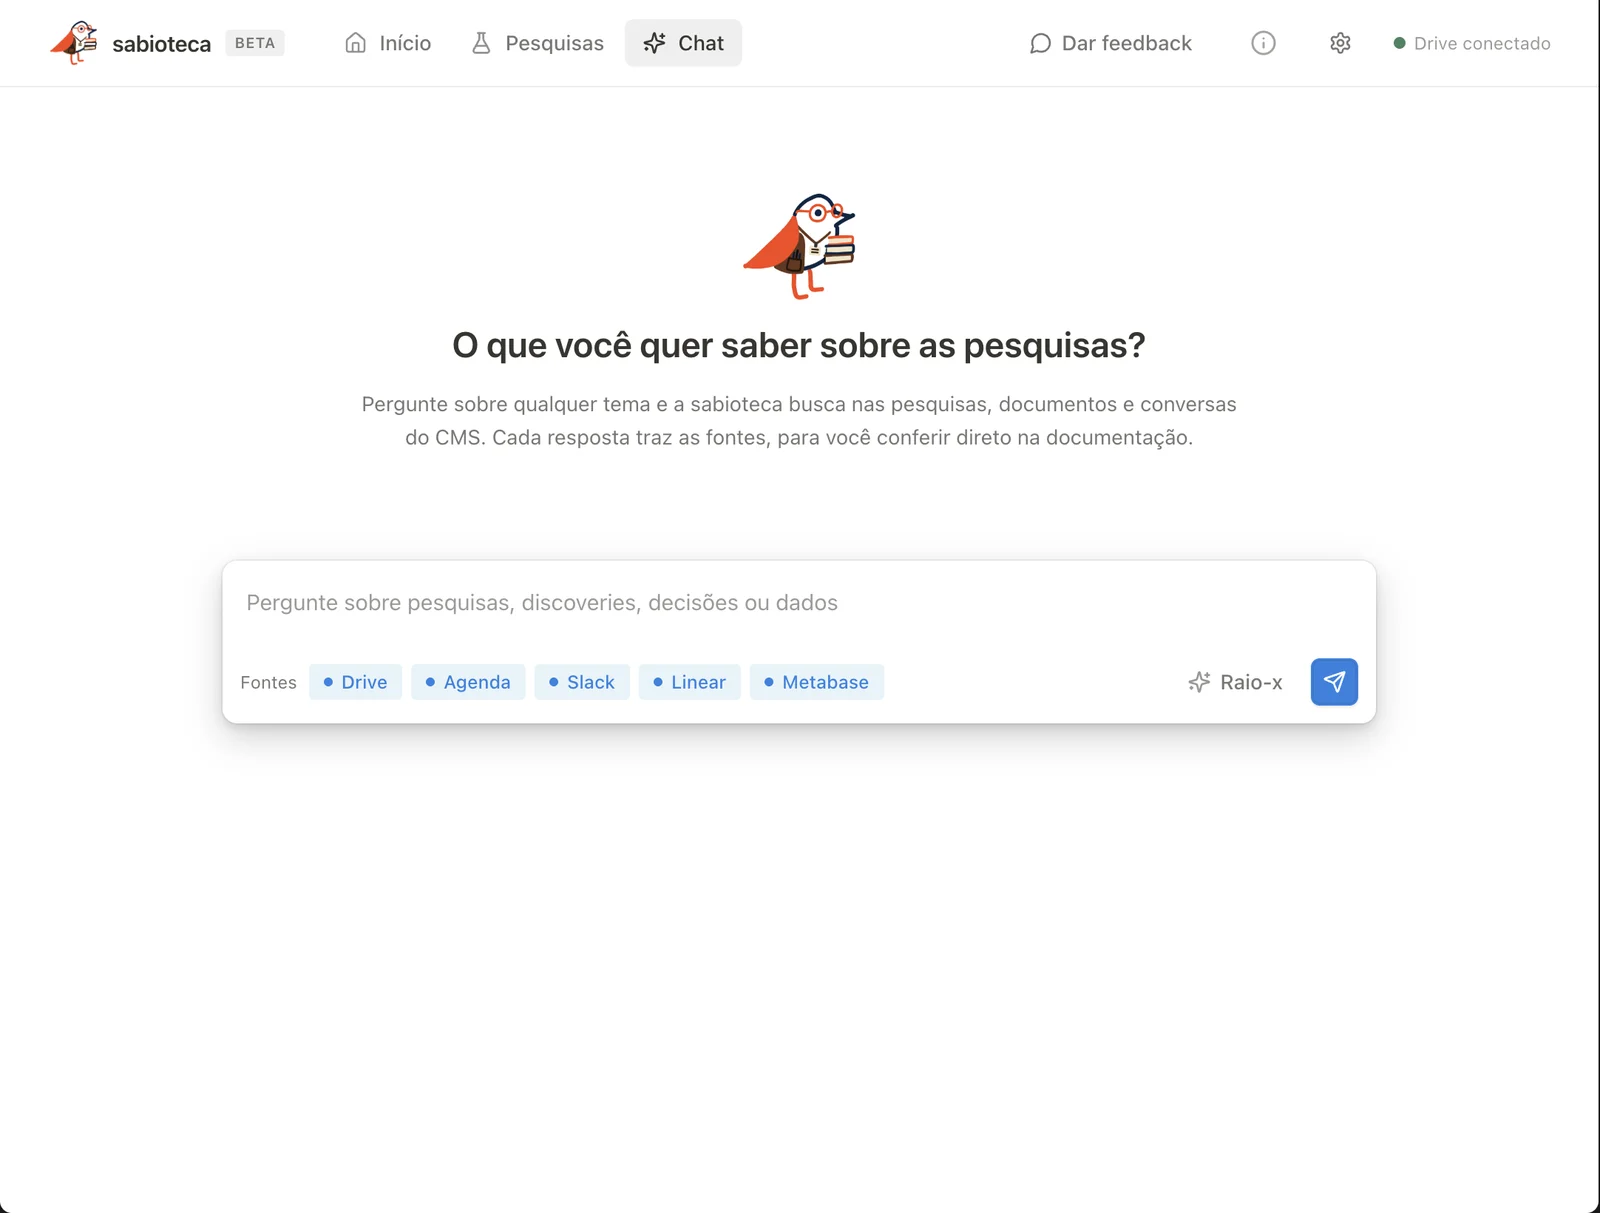
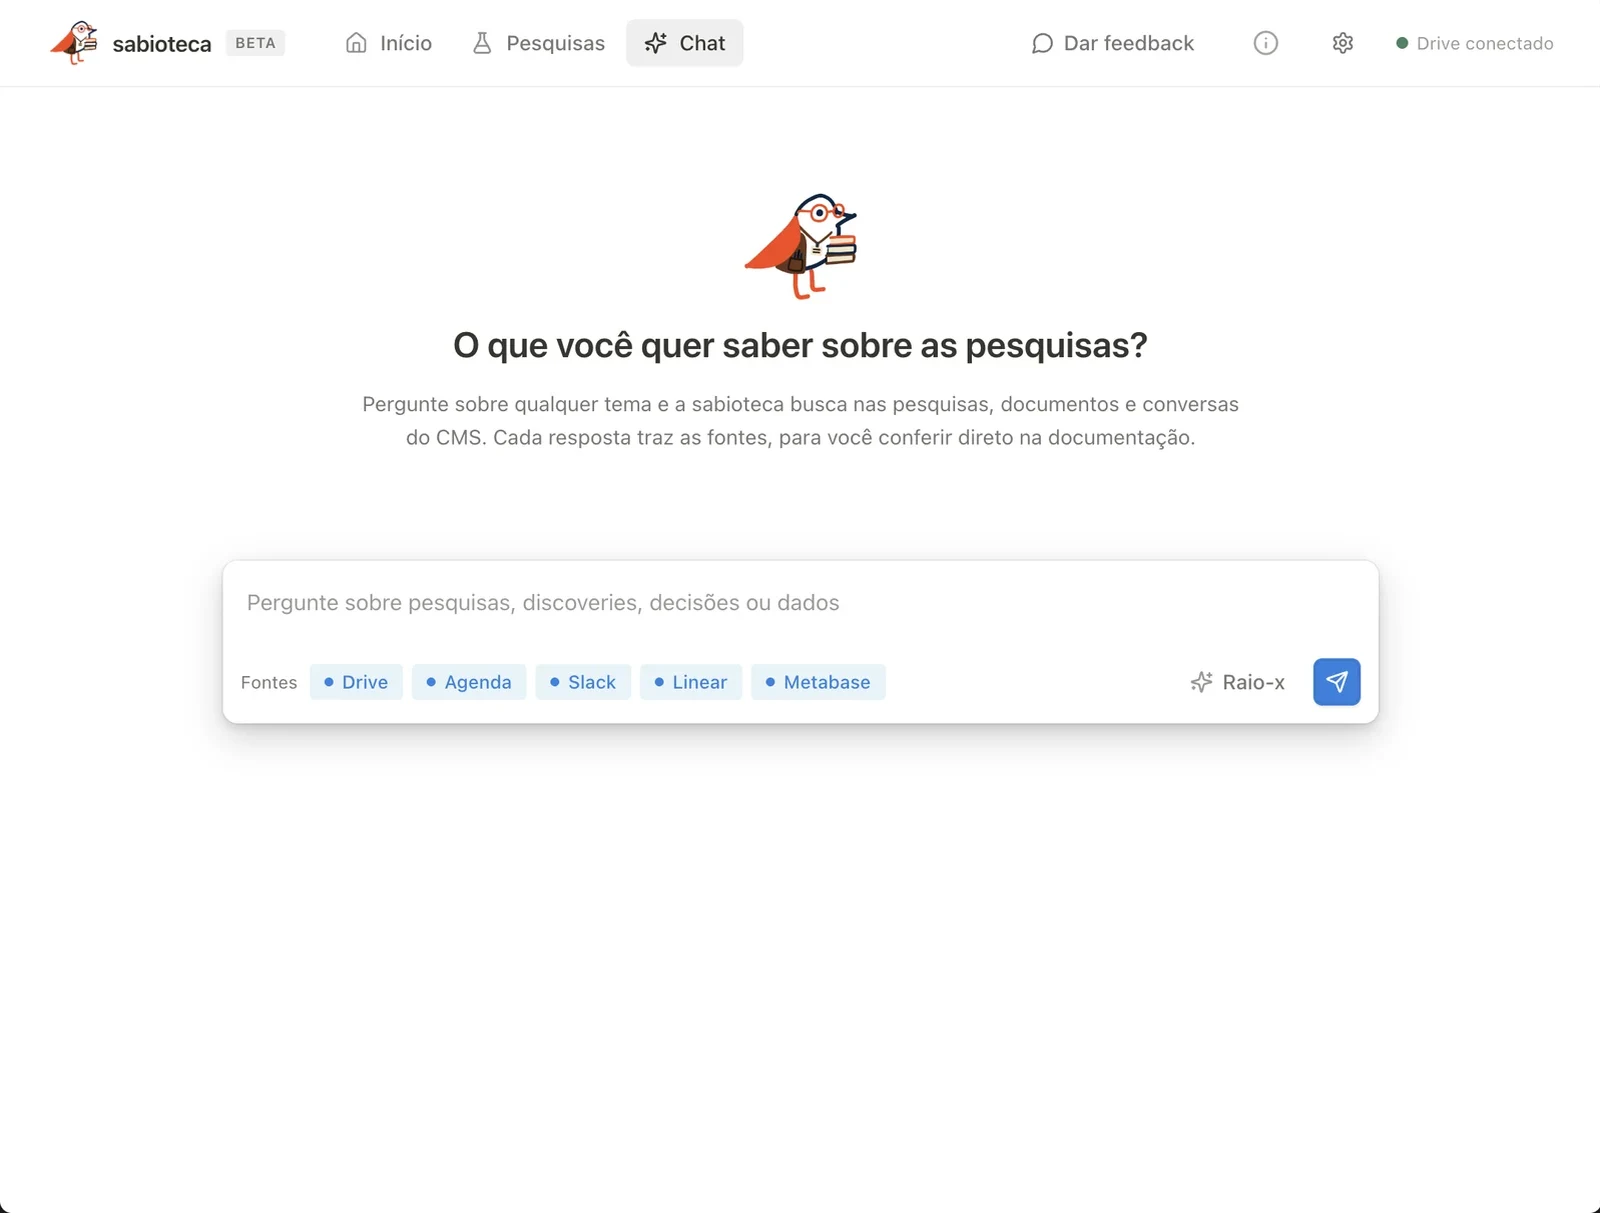
sabioteca: layout alinhado ao case da Gestora (meta-row, capa 16:10, ids, bordas das telas)
Claude-Session: https://claude.ai/code/session_018VAbBkyYy86uqsWqNGdbE6

diff --git a/sabioteca/index.html b/sabioteca/index.html
@@ -56,7 +56,7 @@
   </section>
 
   <div class="case-hero-media rise d3">
-    <img src="/sabioteca/m/sab-inicio.webp" width="1600" height="1213" alt="Tela inicial da sabioteca: visão geral das pesquisas, atualizadas recentemente e próximas entrevistas">
+    <img src="/sabioteca/m/sab-capa.webp" width="2400" height="1500" alt="Telas da sabioteca: visão geral das pesquisas e o chat com seletor de fontes">
   </div>
 
   <section class="intro" id="intro">
@@ -66,8 +66,7 @@
     </div>
   </section>
 
-  <div class="row reveal">
-    <span></span>
+  <div class="row reveal meta-row">
     <div class="body meta">
       <div class="meta-item"><svg class="ico"><use href="#i-user"/></svg><div><h4>Meu papel</h4><p><b>Concepção, design e construção</b>, com o Claude e sem desenvolvedor.</p></div></div>
       <div class="meta-item"><svg class="ico"><use href="#i-team"/></svg><div><h4>Time</h4><p>Escopo definido com mais duas pessoas de design e produto.</p></div></div>
@@ -83,7 +82,7 @@
     </div>
   </div>
 
-  <div class="row reveal">
+  <div class="row reveal" id="problema">
     <h3>Problema</h3>
     <div class="body">
       <p>Sínteses ficavam em uma pasta, transcrições em outra, decisões em canais de chat e o status das iniciativas em outra ferramenta. Como times e produtos mudam de nome com frequência, documentos antigos ficavam quase impossíveis de localizar.</p>
@@ -91,7 +90,7 @@
     </div>
   </div>
 
-  <div class="row reveal">
+  <div class="row reveal" id="formato">
     <h3>Formato</h3>
     <div class="body">
       <p>O objetivo inicial era um chat fixo, acessível ao time por um link. O formato certo apareceu na terceira tentativa.</p>
@@ -104,7 +103,7 @@
     </div>
   </div>
 
-  <div class="row reveal">
+  <div class="row reveal" id="escopo">
     <h3>Escopo</h3>
     <div class="body">
       <p>Ferramentas de IA tendem a acumular funções. Para evitar isso, fizemos uma matriz em grupo definindo o que a sabioteca é e o que ela não é.</p>
@@ -119,14 +118,14 @@
     </div>
   </div>
 
-  <div class="row reveal">
+  <div class="row reveal" id="inicio">
     <h3>Início</h3>
     <div class="body">
       <p>A tela inicial mostra o estado das pesquisas sem ninguém precisar abrir o Drive: quantas estão iniciadas, planejadas e finalizadas, o que mudou por último e as próximas entrevistas da agenda do time. Tudo é lido da pasta de pesquisas e atualizado sob demanda.</p>
     </div>
   </div>
 
-  <div class="row reveal">
+  <div class="row reveal" id="pesquisas">
     <h3>Pesquisas</h3>
     <div class="body">
       <p>Cada pesquisa ganha um ID, como PQ-008, para continuar fácil de achar mesmo quando times e produtos mudam de nome. A lista filtra por status e squad, e o status pode ser trocado ali mesmo.</p>
@@ -137,7 +136,7 @@
     <div class="duo fig-wide"><figure class="fig"><button class="frame" type="button" data-zoom><img width="1600" height="1213" src="/sabioteca/m/sab-pesquisas.webp" alt="Lista de pesquisas com ID, status, squad e datas" loading="lazy"></button></figure><figure class="fig"><button class="frame" type="button" data-zoom><img width="1600" height="1213" src="/sabioteca/m/sab-painel.webp" alt="Painel lateral de uma pesquisa com status, squad, pasta e resumão" loading="lazy"></button></figure></div>
   </div>
 
-  <div class="row reveal">
+  <div class="row reveal" id="nova-pesquisa">
     <h3>Nova pesquisa</h3>
     <div class="body">
       <p>Repetir uma pesquisa que já foi feita é um dos custos mais altos em research ops. Por isso, criar um plano <b>começa pelo raio-x "Já sabemos isso?"</b>: a pessoa escreve a pergunta, e a sabioteca cruza pesquisas no Drive, conversas no Slack, projetos no Linear, dados do Metabase e a agenda de entrevistas antes de qualquer formulário.</p>
@@ -148,17 +147,17 @@
     <div class="duo fig-wide"><figure class="fig"><button class="frame" type="button" data-zoom><img width="1600" height="1213" src="/sabioteca/m/sab-raiox.webp" alt="Etapa Já sabemos isso? com o campo de pergunta e o botão Fazer raio-x" loading="lazy"></button></figure><figure class="fig"><button class="frame" type="button" data-zoom><img width="1600" height="1213" src="/sabioteca/m/sab-contexto.webp" alt="Etapa de contexto da nova pesquisa com nome, squad, responsáveis e objetivo" loading="lazy"></button></figure></div>
   </div>
 
-  <div class="row reveal">
+  <div class="row reveal" id="chat">
     <h3>Chat</h3>
     <div class="body">
       <p>Para perguntas rápidas, o chat busca nas pesquisas, documentos e conversas do CMS. Cada resposta traz as fontes, para a pessoa conferir direto na documentação, e dá para ligar ou desligar cada fonte ou pedir um raio-x completo.</p>
     </div>
   </div>
   <div class="section-wide reveal">
-    <figure class="fig"><div class="frame still"><img width="1600" height="1213" src="/sabioteca/m/sab-chat.webp" alt="Chat da sabioteca com seletor de fontes: Drive, Agenda, Slack, Linear e Metabase" loading="lazy"></div></figure>
+    <figure class="fig fig-wide"><div class="frame still"><img width="1600" height="1213" src="/sabioteca/m/sab-chat.webp" alt="Chat da sabioteca com seletor de fontes: Drive, Agenda, Slack, Linear e Metabase" loading="lazy"></div></figure>
   </div>
 
-  <div class="row reveal">
+  <div class="row reveal" id="recrutamento">
     <h3>Recrutamento</h3>
     <div class="body">
       <p>Uma aba restrita aos proprietários, ainda em construção, mostra quem já participou das pesquisas, a partir das entrevistas vinculadas na agenda. Para cada pessoa aparecem cargo, marca, área, participações e as squads que já falaram com ela, o que ajuda a não chamar sempre as mesmas pessoas.</p>
@@ -168,7 +167,7 @@
     <div class="duo fig-wide"><figure class="fig"><button class="frame" type="button" data-zoom><img width="1600" height="1213" src="/sabioteca/m/sab-recrutamento.webp" alt="Aba Recrutamento com participantes, marca, área e participações" loading="lazy"></button><figcaption>Nomes e e-mails borrados para preservar os participantes.</figcaption></figure><figure class="fig"><button class="frame" type="button" data-zoom><img width="1600" height="1213" src="/sabioteca/m/sab-pessoa.webp" alt="Detalhe de uma participante com cargo, marca, área e histórico de participações" loading="lazy"></button></figure></div>
   </div>
 
-  <div class="row reveal">
+  <div class="row reveal" id="cuidados">
     <h3>Cuidados</h3>
     <div class="body">
       <p><b>Participantes não aparecem nas respostas.</b> Quem aceitou participar de uma pesquisa não aceitou ser citado em qualquer conversa, então o chat e o raio-x usam apenas cargo e área. Os nomes ficam só na aba de recrutamento, visível para proprietários.</p>
@@ -177,7 +176,7 @@
     </div>
   </div>
 
-  <div class="row reveal">
+  <div class="row reveal" id="adocao">
     <h3>Para o time adotar</h3>
     <div class="body">
       <p>A ferramenta explica a si mesma numa página Sobre, em formato de perguntas frequentes, e tem um botão de feedback em todas as telas. Os proprietários acompanham as respostas e o controle de versão, que registra cada mudança e permite restaurar versões anteriores.</p>
@@ -187,7 +186,7 @@
     <div class="duo fig-wide"><figure class="fig"><button class="frame" type="button" data-zoom><img width="1600" height="1213" src="/sabioteca/m/sab-sobre.webp" alt="Página Sobre a sabioteca com perguntas frequentes" loading="lazy"></button></figure><figure class="fig"><button class="frame" type="button" data-zoom><img width="1600" height="1213" src="/sabioteca/m/sab-feedback.webp" alt="Modal de feedback aberto na tela inicial" loading="lazy"></button></figure></div>
   </div>
 
-  <div class="row reveal">
+  <div class="row reveal" id="proximos">
     <h3>Próximos passos</h3>
     <div class="body">
       <p>A matriz foi definida depois de boa parte da construção, e algumas funções foram além do combinado. O raio-x mostra lacunas, que podem ser lidas como sugestão de tema, e o chat às vezes apresenta interpretações. Estou alinhando esses pontos com o time.</p>
